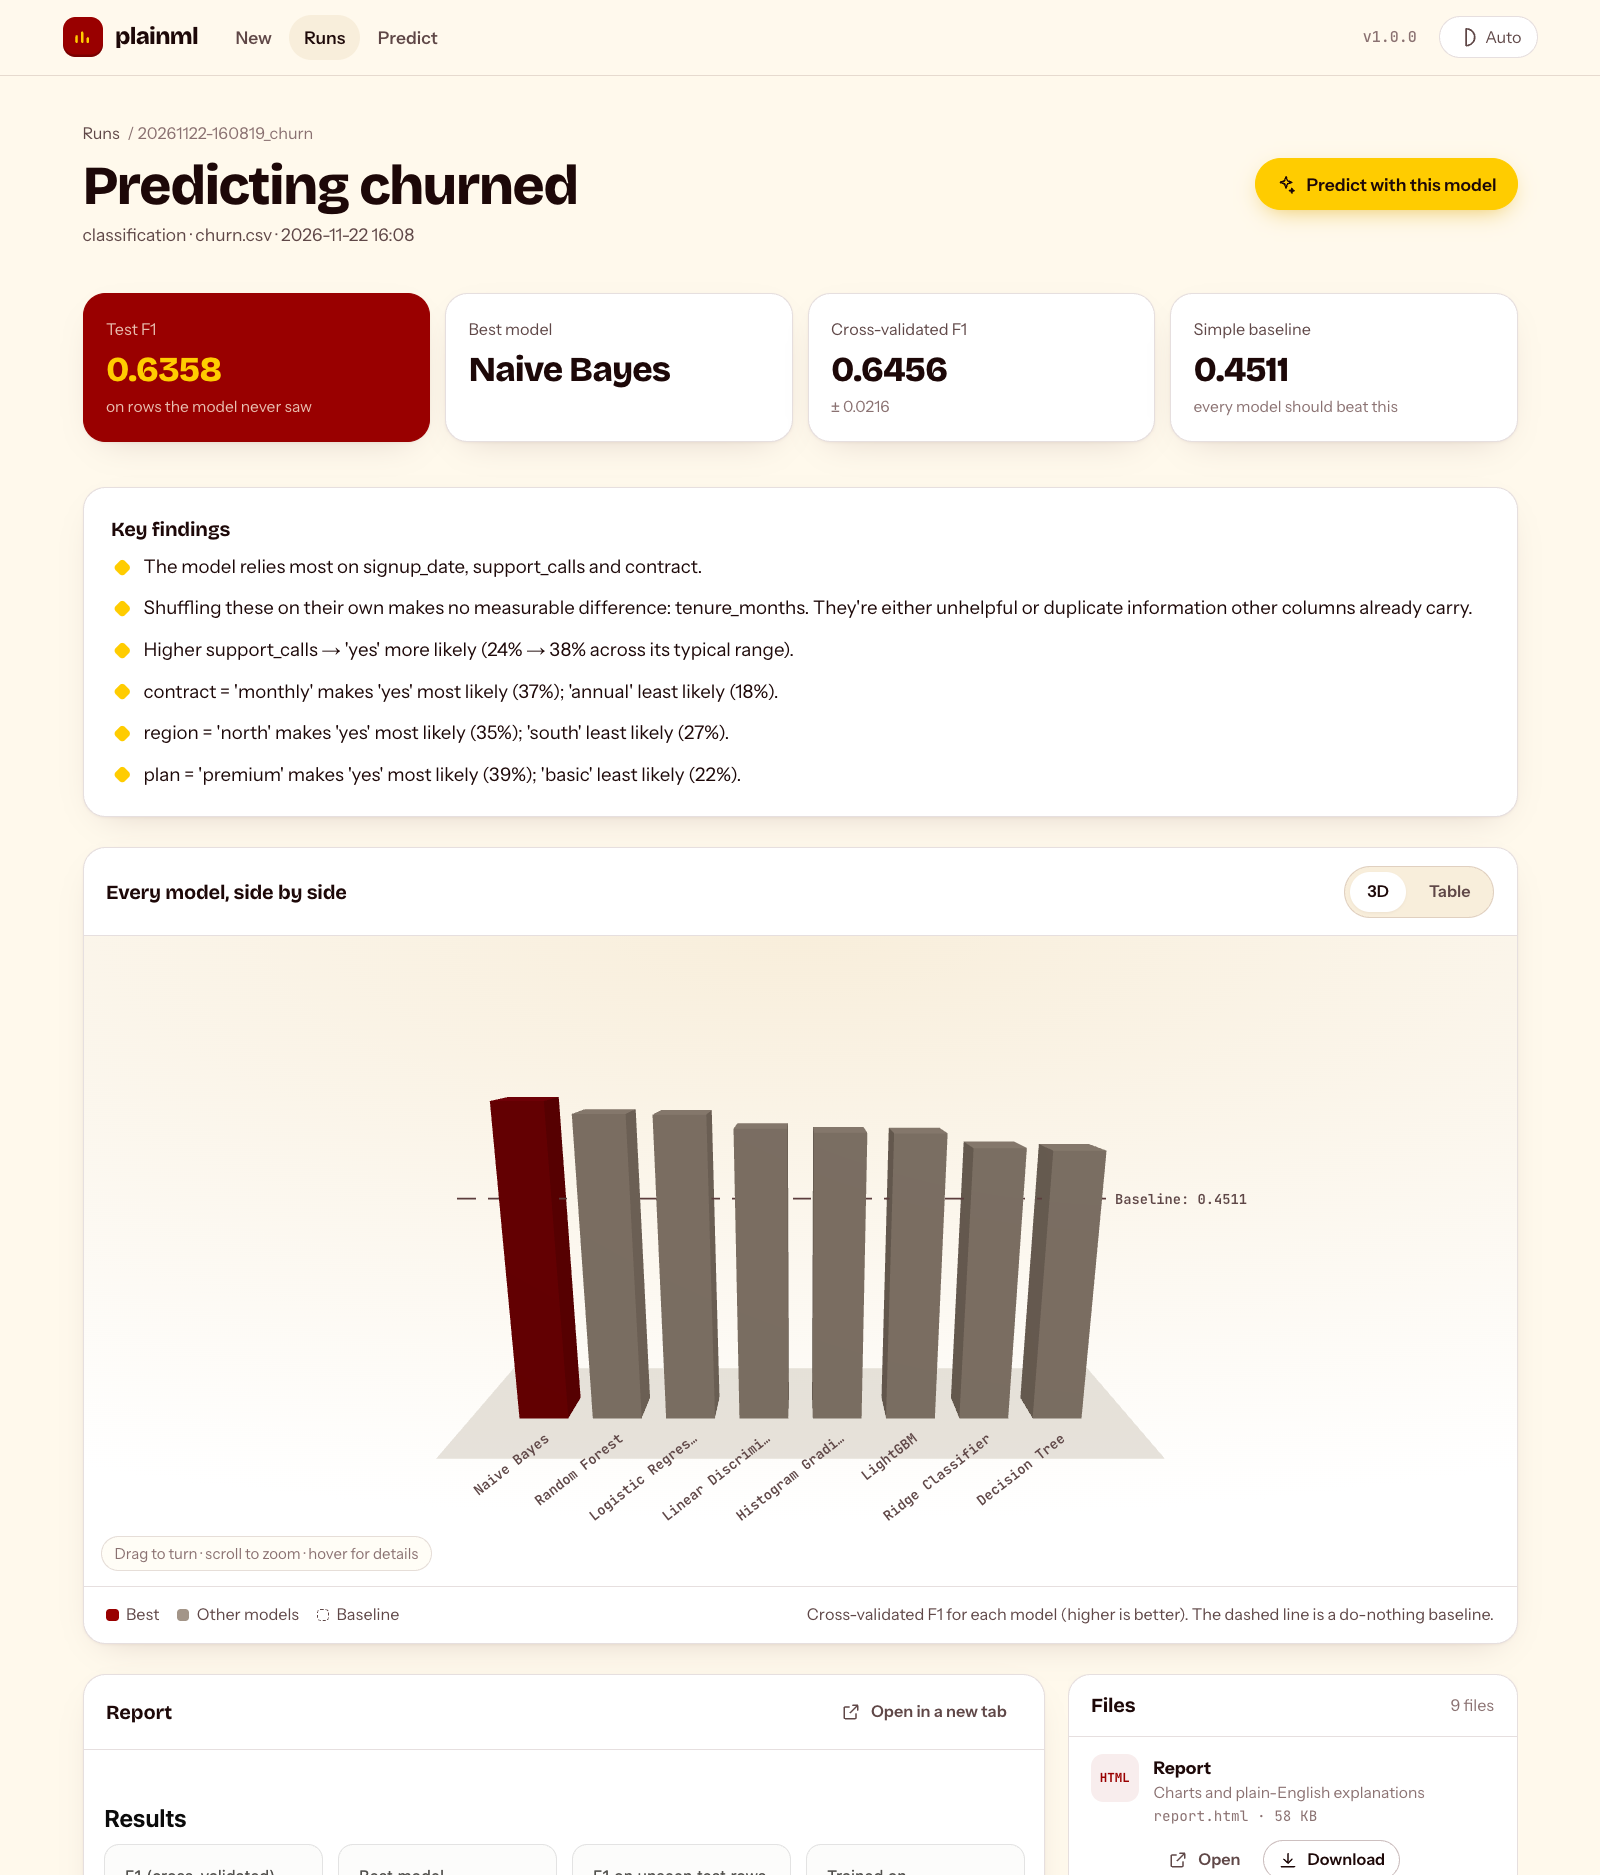
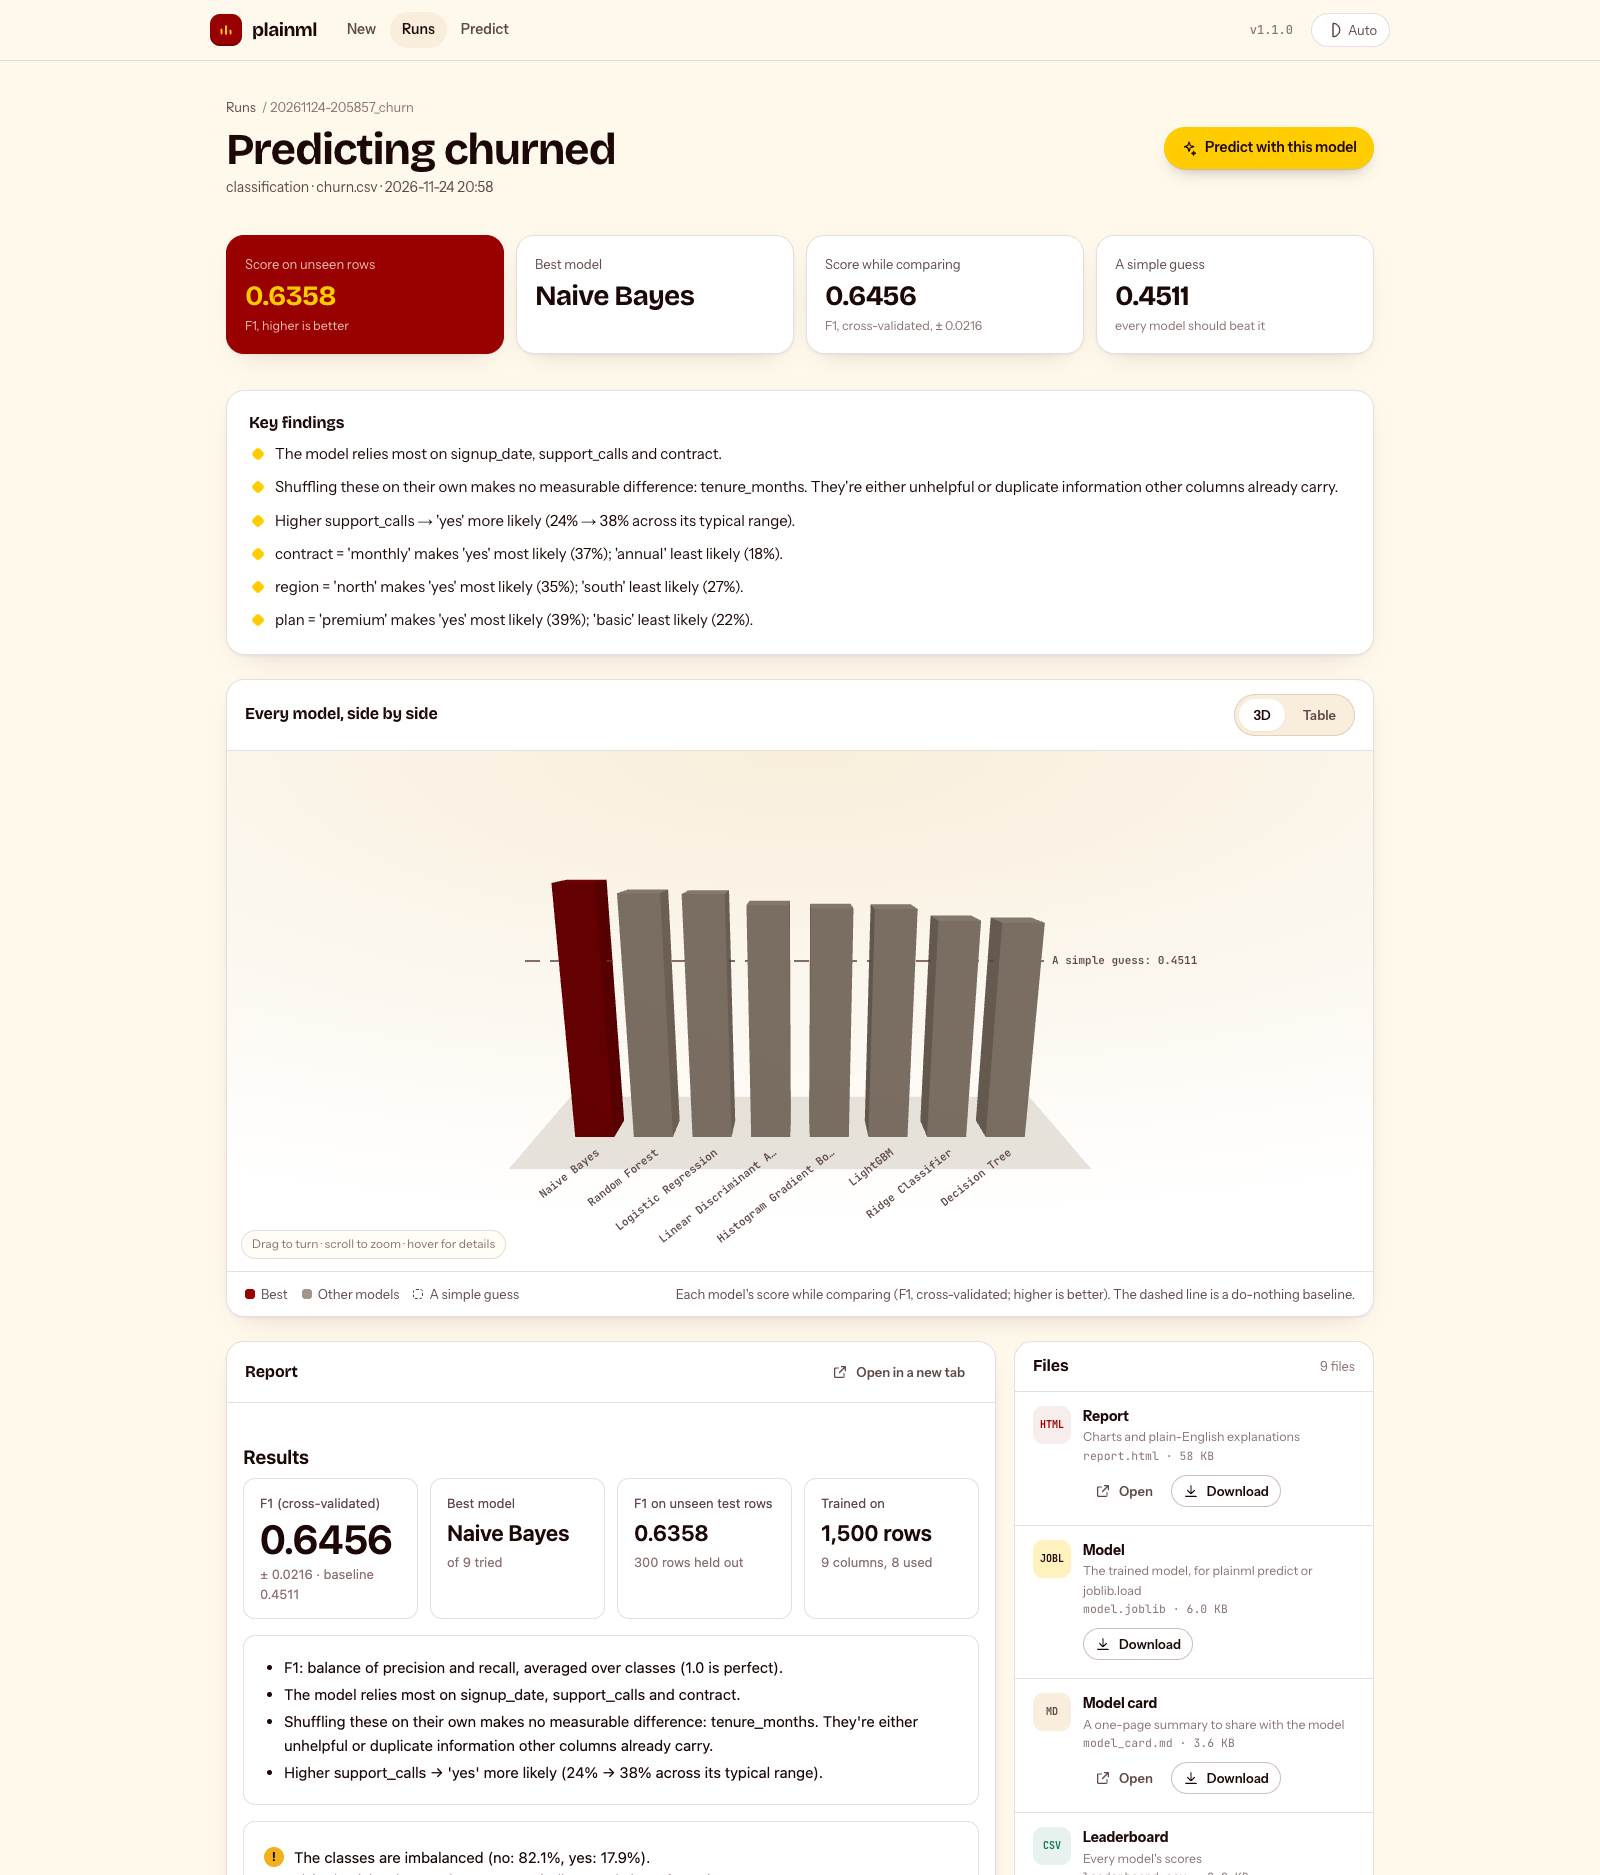
Release 1.1.0
A new home page: a personal project page built on real results from
plainml's example datasets. The hero's 3D model comparison grows in and
crowns the winner, the held-out test is shown as an animated card sorter,
and the page ends with a short letter from the author. Uploading moved to
/new/. The app pages lost their glows, and scores and upload errors are
in plain words. Phones, tablets and touch screens are covered.

The README and home page screenshots show the 1.1.0 run page.

diff --git a/plainml/__init__.py b/plainml/__init__.py
@@ -15,7 +15,7 @@ from __future__ import annotations
 
 from typing import TYPE_CHECKING, Any
 
-__version__ = "1.0.1"
+__version__ = "1.1.0"
 
 # Public API, imported lazily so `plainml --help` doesn't pay for importing scikit-learn.
 _API = {

diff --git a/CHANGELOG.md b/CHANGELOG.md
@@ -1,6 +1,6 @@
 # Changelog
 
-## Unreleased
+## 1.1.0 (November 25, 2026)
 
 - **A new home page.** A personal project page, built on real results:
   - The hero holds plainml's own **3D model comparison**, live, on a cardinal band; drag to turn it.
